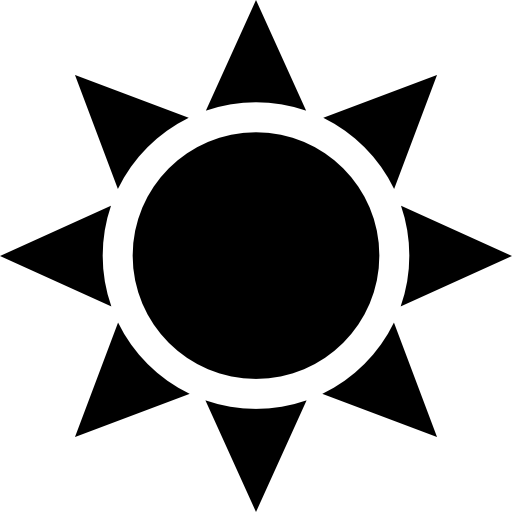
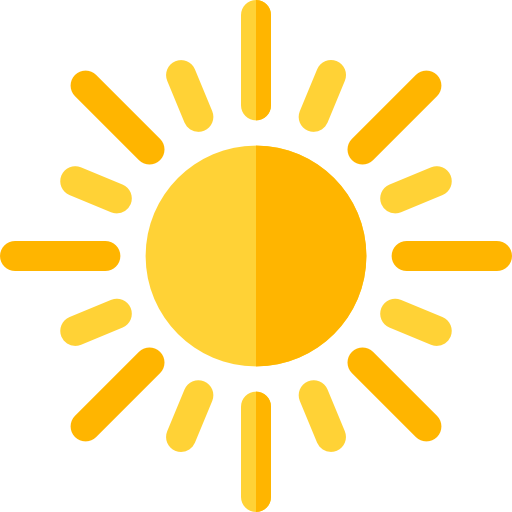
altcolor

diff --git a/assets/styles/style.css b/assets/styles/style.css
@@ -8,32 +8,20 @@
 /*Itens no geral */
 body {
   background-color: black;
-  position: relative;
 }
 
 header {
-  color: #ffffff;
   background-color: #1c1c1c;
-  text-align: center;
-  padding: 15px;
-  height: 60px;
-  position: relative;
-  /* justify-content: space-between;
+  justify-content: space-between;
+  /* display: flex; */
   align-items: center;
-  display: flex;*/
+  text-align: center;
+  padding: 10px;
+  height: 65px;
 }
 
-/* header button {
-  position: absolute;
-} */
-
-header h1 {
-  position: absolute;
-  left: 50%;
-  top: 50%;
-  transform: translate(-50%, -50%);
-  margin: 0;
-
+header h1{
+  margin-top: 1vw;
 }
 
 p {
@@ -52,7 +40,7 @@ button {
   font-size: 40px;
   padding: 10px;
   border-radius: 25px;
-  border: solid rgb(255, 255, 0);
+  border: solid #bd0000;
   margin: 10px;
   align-items: center;
   display: flex;
@@ -63,7 +51,7 @@ button {
 button:hover {
   background-color: #2c2c2c;
   cursor: pointer;
-  box-shadow: 0px 0px 15px rgb(255, 255, 0), 0px 0px 15px rgb(255, 255, 0) inset;
+  box-shadow: 0px 0px 15px red, 0px 0px 15px red inset;
 }
 
 img {
@@ -90,7 +78,7 @@ nav {
 nav img {
   width: 300px;
   height: 300px;
-  border: solid rgb(255, 255, 0);
+  border: solid #bd0000;
   border-radius: 25px;
 }
 
@@ -106,6 +94,14 @@ nav img {
   display: flex;
 }
 
+.subContainer {
+  padding: 10px;
+  width: 100vw;
+  text-align: center;
+  display: grid;
+  place-items: center;
+}
+
 .imgmusics {
   padding: 5px;
 }
@@ -115,22 +111,21 @@ nav img {
   width: 300px;
   padding: 3px;
   margin: 5px;
-  border: solid rgb(255, 255, 0);
+  border: solid #bd0000;
   border-radius: 25px;
-  filter: grayscale(100%);
   cursor: pointer;
 }
 
 .imgmusics img:hover {
   filter: grayscale(0%);
   animation: pulse 1.5s infinite;
-  box-shadow: 0px 0px 15px rgb(255, 255, 0), 0px 0px 15px rgb(255, 255, 0) inset;
+  box-shadow: 0px 0px 15px red, 0px 0px 15px red inset;
 }
 
 /* Ids */
 #Euzinho {
   border-radius: 25px;
-  border: solid rgb(255, 255, 0);
+  border: solid #bd0000;
   width: 300px;
   margin: 25px;
 }
@@ -168,7 +163,7 @@ nav img {
   box-shadow: 0px 0px 15px white, 0px 0px 15px white inset;
 }
 
-/* #back {
+#theme {
   width: auto;
   height: auto;
   border: none;
@@ -177,29 +172,22 @@ nav img {
   margin: 0px;
   margin-left: -10px;
   padding: 5px;
-} */
-
-#subContainer {
-  padding: 10px;
-  width: calc(100vw - 400px);
-  text-align: center;
-  display: grid;
-  place-items: center;
 }
 
-#ASbnt {
+#justbnt {
   width: min-content;
 }
 
-#back img {
+#theme img {
   height: 70px;
   width: 70px;
   margin: 0px;
   margin-left: 0px;
 }
 
-#back:hover {
+#theme:hover {
   background-color: #fff;
+  box-shadow: 0px 0px 15px white;
   cursor: pointer;
 }
 
@@ -223,6 +211,11 @@ nav img {
     border-bottom-left-radius: 15px;
   }
 
+  nav img {
+    width: 75vw;
+    height: 75vw;
+  }
+
   header {
     height: 30px;
   }
@@ -235,7 +228,11 @@ nav img {
     flex-direction: column;
   }
 
-  #subContainer {
+  .subContainer {
     width: auto;
+  }
+
+  button {
+    width: 330px;
   }
 }

diff --git a/pages/pagesMusics/destemido.html b/pages/pagesMusics/destemido.html
@@ -1,0 +1,40 @@
+<!DOCTYPE html>
+<html lang="pt-br">
+
+<head>
+    <meta charset="UTF-8">
+    <meta http-equiv="X-UA-Compatible" content="IE=edge">
+    <meta name="viewport" content="width=device-width, initial-scale=1.0">
+    <link rel="stylesheet" href="../../assets/styles/style.css">
+    <link rel="icon" href="../../public/imgs/incon.png">
+    <script src="../../assets/scripts/script.js">JS</script>
+    <title>O destemido</title>
+</head>
+
+<body>
+    <header>
+        <div style="width: 70px;"></div>
+        <h1>O destemido</h1>
+        <button id="theme" onClick=""><img src="../../public/imgs/sun.png"></button>
+    </header>
+    <div class="container2">
+        <nav>
+            <img src="../../public/capas/Destemido.png">
+            <p></p>
+        </nav>
+        <main class="subContainer">
+            <h3>Disponível no:</h3>
+            <div id="justbnt">
+                <a target="_blank" href=""><button id="ytbnt"><img src="../../public/imgs/YT.png">YouTube</button></a>
+                <a target="_blank" href=""><button id="tikbnt"><img src="../../public/imgs/Tik.png">TikTok</button></a>
+                <a href="" target="_blank"><button id="gitbnt"><img src="../../public/imgs/git.png">Github</button></a>
+            </div>
+        </main>
+        <!-- <main class="subContainer">
+            <iframe src="../../public/pdfs/O destemido.pdf" frameborder="0"></iframe>
+        </main> -->
+    </div>
+    <!-- <footer>Daniel Carlos Silva Pinto</footer> -->
+</body>
+
+</html>

diff --git a/pages/pagesMusics/bobo.html b/pages/pagesMusics/bobo.html
@@ -1,0 +1,36 @@
+<!DOCTYPE html>
+<html lang="pt-br">
+
+<head>
+    <meta charset="UTF-8">
+    <meta http-equiv="X-UA-Compatible" content="IE=edge">
+    <meta name="viewport" content="width=device-width, initial-scale=1.0">
+    <link rel="stylesheet" href="../../assets/styles/style.css">
+    <link rel="icon" href="../../public/imgs/incon.png">
+    <script src="../../assets/scripts/script.js">JS</script>
+    <title>O bobo alegre</title>
+</head>
+
+<body>
+    <header>
+        <!-- <button id="theme" onClick="history.go(-1)"><img src="../../public/imgs/backIcon.png"></button> -->
+        <h1>O bobo alegre</h1>
+    </header>
+    <div class="container2">
+        <nav>
+            <img src="../../public/capas/O-bobo-alegre.png">
+            <p></p> <!-- colocar as informações-->
+        </nav>
+        <main class="subContainer">
+            <h3>Disponível no:</h3>
+            <div id="justbnt">
+                <a target="_blank" href=""><button id="ytbnt"><img src="../../public/imgs/YT.png">YouTube</button></a> <!-- colocar as informações-->
+                <a target="_blank" href=""><button id="tikbnt"><img src="../../public/imgs/Tik.png">TikTok</button></a> <!-- colocar as informações-->
+                <a href="" target="_blank"><button id="gitbnt"><img src="../../public/imgs/git.png">Github</button></a> <!-- colocar as informações-->
+            </div>
+        </main>
+    </div>
+    <!-- <footer>Daniel Carlos Silva Pinto</footer> -->
+</body>
+
+</html>

diff --git a/pages/pagesMusics/Infancia.html b/pages/pagesMusics/Infancia.html
@@ -13,7 +13,7 @@
 
 <body>
     <header>
-        <!-- <button id="back" onClick="history.go(-1)"><img src="../../public/imgs/backIcon.png"></button> -->
+        <!-- <button id="theme" onClick="history.go(-1)"><img src="../../public/imgs/backIcon.png"></button> -->
         <h1>Infância</h1>
     </header>
     <div class="container2">
@@ -25,9 +25,9 @@
                 parecia uma cantiga ou uma música infantil, nada mais justo do que nomeá-la de Infância. E para a capa,
                 uma bola de futebol, algo que marcou a infância de várias pessoas, especialmente dos adultos.</p>
         </nav>
-        <main id="subContainer">
-            <h3>Disponível no:</h3>
-            <div id="ASbnt">
+        <main class="subContainer">
+            <div id="justbnt">
+                <h3>Disponível no:</h3>
                 <a target="_blank" href="https://youtu.be/rpuSPMyBVeY?si=wa47WtsURDC2ylFq"><button id="ytbnt"><img
                             src="../../public/imgs/YT.png">YouTube</button></a>
                 <a target="_blank" href="https://www.tiktok.com/@danielcarlos80bpm/video/7309114469496409350"><button

diff --git a/pages/pagesMusics/lembranca.html b/pages/pagesMusics/lembranca.html
@@ -13,7 +13,7 @@
 
 <body>
     <header>
-        <!-- <button id="back" onClick="history.go(-1)"><img src="../../public/imgs/backIcon.png"></button> -->
+        <!-- <button id="theme" onClick="history.go(-1)"><img src="../../public/imgs/backIcon.png"></button> -->
         <h1>Lembrança</h1>
     </header>
     <div class="container2">
@@ -25,9 +25,9 @@
                 melodia parece que está lembrando uma memória "desconfortável". E para a capa decidi fazer algo mais
                 significativo, então coloquei velas no fundo.</p>
         </nav>
-        <main id="subContainer">
-            <h3>Disponível no:</h3>
-            <div id="ASbnt">
+        <main class="subContainer">
+            <div id="justbnt">
+                <h3>Disponível no:</h3>
                 <a target="_blank" href="https://youtu.be/KSoisOvyw5o?si=JuVSCpDHXpSJy02k"><button id="ytbnt"><img
                             src="../../public/imgs/YT.png">YouTube</button></a>
                 <a target="_blank"

diff --git a/pages/pagesMusics/Transformação.html b/pages/pagesMusics/Transformação.html
@@ -13,7 +13,7 @@
 
 <body>
     <header>
-        <!-- <button id="back" onClick="history.go(-1)"><img src="../../public/imgs/backIcon.png"></button> -->
+        <!-- <button id="theme" onClick="history.go(-1)"><img src="../../public/imgs/backIcon.png"></button> -->
         <h1>Transformação</h1>
     </header>
     <div class="container2">
@@ -24,9 +24,9 @@
                 do fagote estar mudando de agudo para o grave, e para a capa da música nada mais justo do que uma
                 borboleta.</p>
         </nav>
-        <main id="subContainer">
-            <h3>Disponível no:</h3>
-            <div id="ASbnt">
+        <main class="subContainer">
+            <div id="justbnt">
+                <h3>Disponível no:</h3>
                 <a target="_blank" href="https://youtu.be/cf_6etAQniE?si=4m9uDI4SuprMSDYd"><button id="ytbnt"><img
                             src="../../public/imgs/YT.png">YouTube</button></a>
                 <a target="_blank"

diff --git a/pages/pagesMusics/soon.html b/pages/pagesMusics/soon.html
@@ -14,7 +14,7 @@
 <body>
     <header>
         <h1>Em breve...</h1>
-        <!-- <button id="back" onClick="history.go(-1)"><img src="../../public/imgs/backIcon.png"></button> -->
+        <!-- <button id="theme" onClick="history.go(-1)"><img src="../../public/imgs/backIcon.png"></button> -->
     </header>
     <div class="container">
         <p>Parece que há nada aqui por enquanto :)</p>

diff --git a/pages/infoMusics.html b/pages/infoMusics.html
@@ -13,7 +13,7 @@
 
 <body>
     <header>
-        <!-- <button id="back" onClick="history.go(-1)"><img src="../public/imgs/backIcon.png"></button> -->
+        <!-- <button id="theme" onClick="history.go(-1)"><img src="../public/imgs/backIcon.png"></button> -->
         <h1>Informações musicais</h1>
     </header>
 

diff --git a/index.html b/index.html
@@ -14,6 +14,7 @@
 <body>
     <header>
         <h1>Bem vindo ao stúdio do Daniel</h1>
+        <!-- <button id="theme" onClick="history.go(-1)"><img src="../public/imgs/backIcon.png"></button> -->
     </header>
 
     <div class="container">
